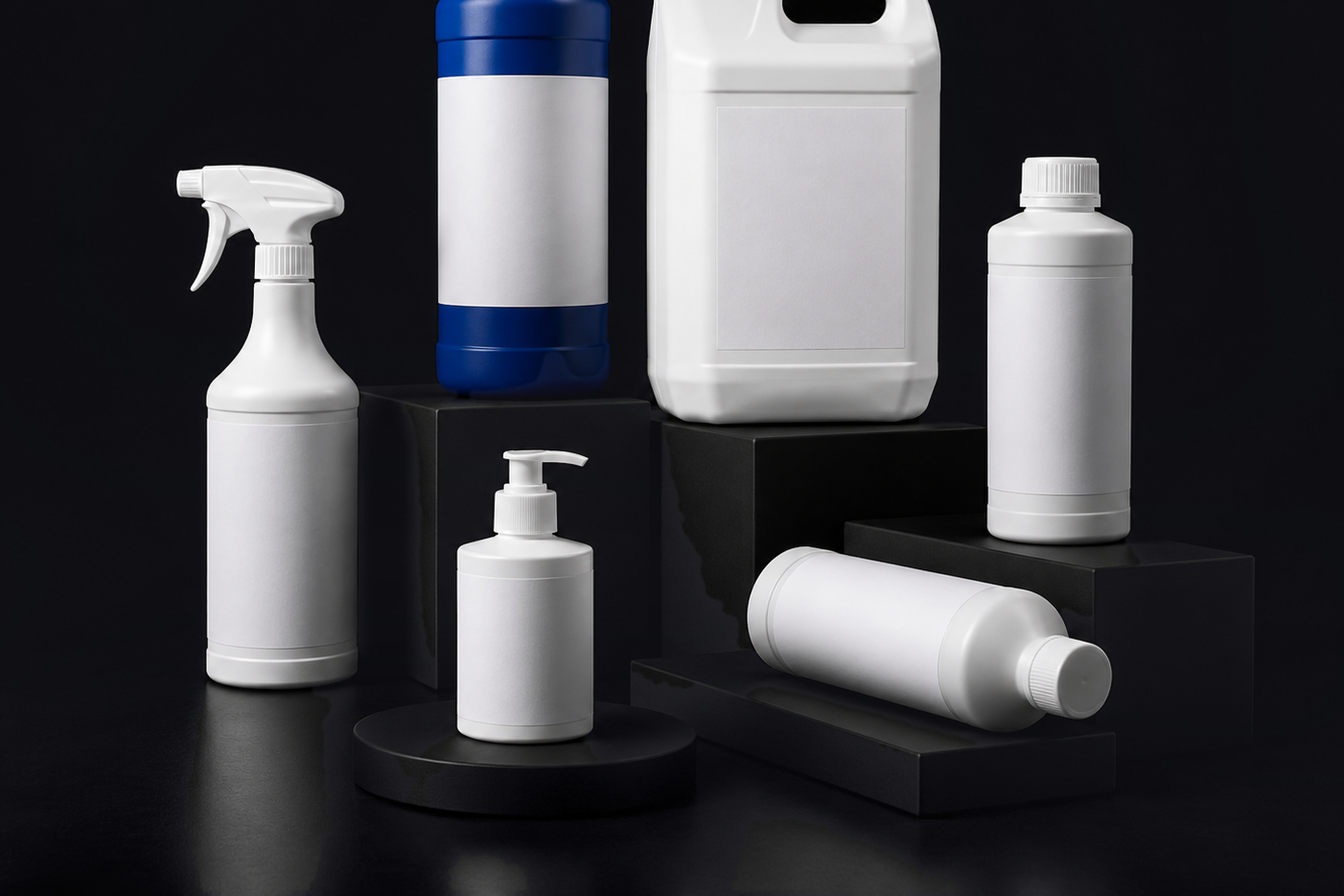
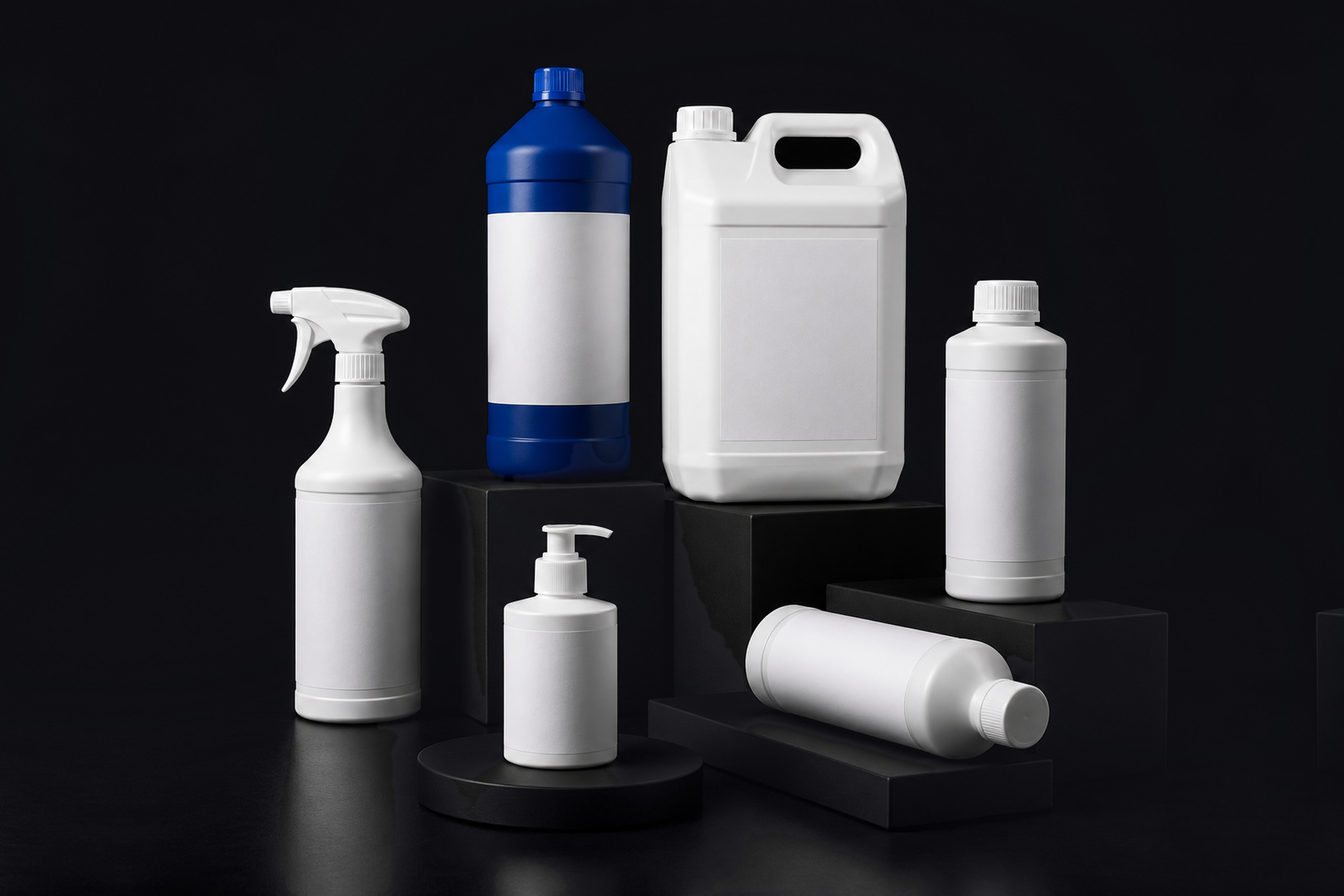
chemie: Format ueber die Leinwand statt ueber den Beschnitt
BEFUND, bestaetigt: Beim Vereinheitlichen auf 3:2 wurden bei chemie
187 px oben abgeschnitten. Die Gegenstaende beginnen aber schon bei
y=84. Der Schnitt lief also 103 px in die Ware hinein und hat dem
Kanister den Tragegriff und der blauen Flasche den Verschluss
genommen.

GEPRUEFT WURDEN ALLE SIEBEN. Nur chemie ist betroffen:
  papier        1349x1166  Schnitt 267 px oben, Ware ab y=318
                -> 51 px Abstand, nur leerer Grund entfernt
  chemie        1402x1122  Schnitt 187 px oben, Ware ab y= 84
                -> 103 px in die Ware hinein
  die uebrigen fuenf  1536x1024, bereits 3:2, gar nicht beschnitten
Links, rechts und unten wurde bei keinem Bild etwas entfernt.

NEUE REGEL, umgesetzt in scripts/kategorie-erweitern.py: keine Ware
beschneiden. Das Format entsteht ueber eine breitere Leinwand.
Beschnitten wird nur, wenn ausschliesslich leerer Grund wegfaellt -
das trifft auf papier zu, deshalb bleibt papier wie es ist.

CHEMIE NEU, vom unveraenderten Original aus:
  1402x1122 -> Leinwand 1683x1122, Erweiterung 281 px = 20,0 Prozent
  angesetzt links 154 px, rechts 127 px, Gegenstaende damit mittig
  1683x1122 -> 1344x896, Faktor 0,7986, also verkleinert
Nichts hochgerechnet, nichts verzerrt, nichts beschnitten.

DIE STREIFEN WERDEN GESPIEGELT, NICHT GERECHNET. Erster Versuch war
der geschaetzte Feldwert der Randspalte plus Korn - naheliegend und
falsch: das Feld ist eine geglaettete Naeherung, die untere linke
[…]

diff --git a/scripts/kategorie-erweitern.py b/scripts/kategorie-erweitern.py
@@ -1,0 +1,117 @@
+#!/usr/bin/env python3
+"""
+Kategoriebild auf 3:2 bringen, indem die Leinwand erweitert wird.
+
+  python3 scripts/kategorie-erweitern.py chemie             # nur rechnen
+  python3 scripts/kategorie-erweitern.py chemie --schreiben
+
+ANLASS: Beim Vereinheitlichen wurde chemie oben beschnitten und dabei
+Ware angeschnitten - dem Kanister fehlte der Tragegriff, der blauen
+Flasche der Verschluss. Auf einer Kategoriekachel liest sich das als
+Fehler.
+
+REGEL, die daraus folgt: An diesen Bildern wird keine Ware
+beschnitten. Der Hintergrund ist gleichmaessig dunkel und laesst sich
+fortsetzen, also wird das Format ueber eine breitere Leinwand
+erreicht. Beschnitten wird nur, wenn ausschliesslich leerer Grund
+wegfaellt.
+
+WARUM WAND UND BODEN DURCHLAUFEN: Der Hintergrund wird ohnehin
+komplett neu gerechnet (scripts/kategorie-hintergrund.py), und zwar
+fuer die GESAMTE neue Leinwand in einem Stueck. Bodenkante, Abfall
+zur Mitte und Grundton laufen dadurch von selbst durch die
+angesetzten Streifen weiter, auf derselben Hoehe wie im Bild.
+
+Die Streifen entstehen durch SPIEGELUNG des jeweiligen Bildrandes.
+Ein aus dem geschaetzten Feld gerechneter Streifen waere naheliegend,
+erzeugt aber eine sichtbare Naht: das Feld ist eine geglaettete
+Naeherung, der echte Bildrand weicht davon ab. Der Streifen laege
+dann auf dem Sollwert, das Bild daneben darunter - und genau das
+sieht man als senkrechte Kante. Gespiegelt traegt der Streifen
+dieselbe Abweichung wie die Flaeche, an die er anschliesst.
+Gespiegelt wird nur, wenn am betreffenden Rand ausschliesslich leerer
+Grund steht; sonst bricht das Skript ab.
+
+Abhaengigkeiten: pillow, numpy, scipy
+"""
+import importlib.util
+import sys
+from pathlib import Path
+
+import numpy as np
+from PIL import Image
+from scipy import ndimage as ndi
+
+WURZEL = Path(__file__).resolve().parent.parent
+ORDNER = WURZEL / "public/kategorie"
+
+_spec = importlib.util.spec_from_file_location("kh", WURZEL / "scripts/kategorie-hintergrund.py")
+kh = importlib.util.module_from_spec(_spec)
+_spec.loader.exec_module(kh)
+
+GRENZE = 0.25   # mehr Erweiterung als das lassen wir nicht zu
+
+
+def erweitern(name, schreiben):
+    q = ORDNER / f"{name}.png"
+    im = np.asarray(Image.open(q).convert("RGB"), dtype=np.float32)
+    H, W, _ = im.shape
+    ziel_b = int(round(H * kh.ZIEL_VERHAELTNIS))
+    zusatz = ziel_b - W
+    print(f"{name}: Original {W}x{H}, Verhaeltnis {W/H:.3f}")
+    if zusatz <= 0:
+        print("  bereits breit genug, keine Erweiterung noetig")
+        return
+    print(f"  Ziel {ziel_b}x{H}, Erweiterung {zusatz} px "
+          f"= {zusatz / W * 100:.1f} Prozent der Bildbreite")
+    if zusatz / W > GRENZE:
+        print(f"  ABBRUCH: ueber der Grenze von {GRENZE*100:.0f} Prozent")
+        return
+
+    alt, _, _ = kh.altes_feld(im)
+    kern = kh.objektmaske(im.mean(2) - alt.mean(2))
+    ys, xs = np.where(kern)
+    # Die Gegenstaende sollen in der neuen Leinwand mittig stehen.
+    links = int(round(np.clip((ziel_b - (xs.max() - xs.min() + 1)) / 2 - xs.min(),
+                              0, zusatz)))
+    rechts = zusatz - links
+    print(f"  Gegenstaende x {xs.min()}..{xs.max()}, y {ys.min()}..{ys.max()}")
+    print(f"  angesetzt: links {links} px, rechts {rechts} px")
+
+    # Die Streifen werden GESPIEGELT, nicht gerechnet.
+    # Ein gerechneter Streifen aus dem geschaetzten Feld sieht auf dem
+    # Papier richtig aus und erzeugt trotzdem eine sichtbare Naht: das
+    # Feld ist eine geglaettete Naeherung, der echte Rand des Bildes
+    # weicht davon ab - bei chemie ist die untere linke Ecke deutlich
+    # dunkler als das Modell. Der Streifen laege dann auf dem Sollwert,
+    # das Bild daneben darunter, und genau das sieht man als Kante.
+    # Gespiegelt traegt der Streifen dieselbe Abweichung wie die Flaeche,
+    # an die er anschliesst, und die Naht verschwindet.
+    # Zulaessig ist das nur, weil an beiden Raendern ausschliesslich
+    # leerer Grund steht - gepruefte Bedingung, siehe unten.
+    if links > xs.min() or rechts > W - 1 - xs.max():
+        print("  ABBRUCH: der zu spiegelnde Rand enthaelt Ware")
+        return
+    ext = np.empty((H, ziel_b, 3), dtype=np.float32)
+    ext[:, links:links + W] = im
+    if links:
+        ext[:, :links] = im[:, links:0:-1][:, -links:] if links > 1 else im[:, :1]
+    if rechts:
+        ext[:, links + W:] = im[:, W - 2:W - 2 - rechts:-1]
+
+    erg, kern2, _, rest = kh.vereinheitlichen(ext)
+    print(f"  Restabweichung des Feldes: {rest:.2f} Tonwerte")
+
+    bild = Image.fromarray(np.clip(erg + 0.5, 0, 255).astype(np.uint8))
+    bild = bild.resize((kh.ZIEL_BREITE, kh.ZIEL_HOEHE), Image.LANCZOS)
+    print(f"  {ziel_b}x{H} -> {kh.ZIEL_BREITE}x{kh.ZIEL_HOEHE}, "
+          f"Faktor {kh.ZIEL_BREITE/ziel_b:.4f} (verkleinert, nicht hochgerechnet)")
+    if schreiben:
+        bild.save(ORDNER / f"{name}-final.png")
+        print(f"  geschrieben: {name}-final.png")
+
+
+if __name__ == "__main__":
+    namen = [a for a in sys.argv[1:] if not a.startswith("--")]
+    for n in namen or ["chemie"]:
+        erweitern(n, "--schreiben" in sys.argv)
